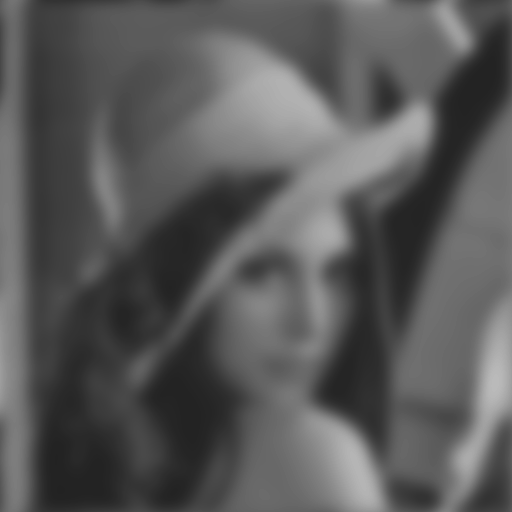
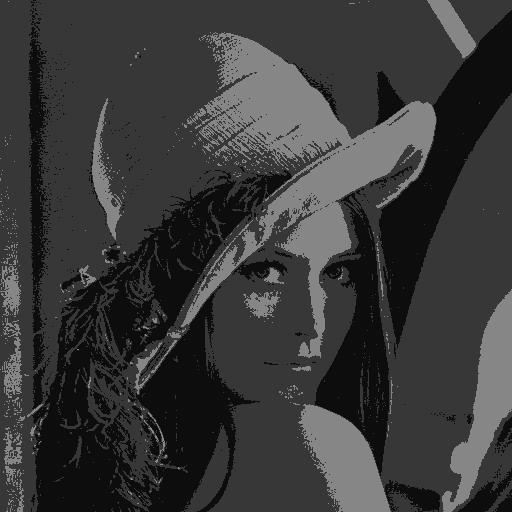
Mudei o output do teste de quantizacao. Parece melhor agora, e faz mais sentido.
Fazer o GCH e o outro lá (só olhar no código do professor).
Implementar as distâncias.
Fazer interfaces gráficas.

diff --git a/SimpleImageWorker/src/org/siw/gui/ImageFrame.java b/SimpleImageWorker/src/org/siw/gui/ImageFrame.java
@@ -1,6 +1,13 @@
 package org.siw.gui;
 
 import java.awt.BorderLayout;
+import java.awt.Component;
+import java.awt.Dimension;
+import java.awt.event.ActionEvent;
+import java.awt.event.ActionListener;
+import java.awt.image.BufferedImage;
+import java.io.File;
+import java.util.HashMap;
 
 import javax.imageio.ImageIO;
 import javax.swing.JFileChooser;
@@ -30,13 +37,6 @@ import org.siw.image.pointoperations.PointOperation;
 import org.siw.image.pointoperations.Threshold;
 import org.siw.image.transformations.FastFourierTransform;
 import org.siw.image.transformations.FourierTransform;
-
-import java.awt.event.ActionListener;
-import java.awt.event.ActionEvent;
-import java.awt.image.BufferedImage;
-import java.io.File;
-import java.util.HashMap;
-import java.util.Iterator;
 
 public class ImageFrame extends JFrame {
 	private static final long serialVersionUID = -3249878958195244978L;
@@ -75,16 +75,17 @@ public class ImageFrame extends JFrame {
 	private JScrollPane scrollPane;
 	private ImagePanel image;
 	
-	public ImageFrame(String filename) throws Exception{
+	public ImageFrame(String filename) {
 		this(new File(filename));
 	}
 	
-	public ImageFrame(File filename) throws Exception {
-		initComponents(filename);
-		
+	public ImageFrame(File filename) {
 		setTitle("Simple Image Worker - " + filename);
 		setDefaultCloseOperation(JFrame.DISPOSE_ON_CLOSE);
+		
+		initComponents(filename);
 		pack();
+		setLocationRelativeTo(null);
 	}
 	
 	public ImageFrame(BufferedImage img) throws Exception {
@@ -99,9 +100,10 @@ public class ImageFrame extends JFrame {
 		setTitle("Simple Image Worker");
 		setDefaultCloseOperation(JFrame.DISPOSE_ON_CLOSE);
 		pack();
+		setLocationRelativeTo(null);
 	}
 
-	private void initComponents(File filename) throws Exception {
+	private void initComponents(File filename) {
 		// menu
 		menuBar = new JMenuBar();
 		setJMenuBar(menuBar);
@@ -197,13 +199,33 @@ public class ImageFrame extends JFrame {
 		
 		mntmFastFourier.addActionListener(new ActionListener() { public void actionPerformed(ActionEvent arg0) { mntmFastFourierAction(arg0); }});
 		
-		// imagem
-		image = new ImagePanel(filename);
-		
 		// scroll
 		scrollPane = new JScrollPane();
 		getContentPane().add(scrollPane, BorderLayout.CENTER);
-		scrollPane.setViewportView(image);
+		
+		// imagem
+		try {
+			image = new ImagePanel(filename);
+			scrollPane.setViewportView(image);
+		} catch (Exception e) {
+			e.printStackTrace();
+			
+			for (Component c : this.getComponents())
+				c.setEnabled(false);
+			
+			for (int i = 0; i < menuBar.getMenuCount(); i++) {
+				JMenu menu = menuBar.getMenu(i);
+				menu.setEnabled(false);
+				for (Component c : menu.getMenuComponents())
+					c.setEnabled(false);
+			}
+			
+			mnArquivo.setEnabled(true);
+			mntmCarregar.setEnabled(true);
+			mntmFechar.setEnabled(true);
+			
+			setPreferredSize(new Dimension(500, 500));
+		}
 	}
 	
 	private void mntmCarregarAction(ActionEvent ev) {
@@ -525,7 +547,7 @@ public class ImageFrame extends JFrame {
 		}
 	}
 	
-	public static void main (String[] args) throws Exception {
+	public static void main (String[] args) {
 		JFrame principal = new ImageFrame("testes/lena.big.png");
 		principal.setVisible(true);
 	}

diff --git a/SimpleImageWorker/src/org/siw/gui/ImageOptions.java b/SimpleImageWorker/src/org/siw/gui/ImageOptions.java
@@ -1,5 +1,11 @@
 package org.siw.gui;
 
+import java.awt.BorderLayout;
+import java.awt.GridLayout;
+import java.awt.event.ActionEvent;
+import java.awt.event.ActionListener;
+import java.awt.event.WindowAdapter;
+import java.awt.event.WindowEvent;
 import java.text.NumberFormat;
 import java.util.HashMap;
 import java.util.Iterator;
@@ -10,20 +16,9 @@ import javax.swing.JDialog;
 import javax.swing.JFormattedTextField;
 import javax.swing.JFrame;
 import javax.swing.JLabel;
-import javax.swing.JOptionPane;
 import javax.swing.JPanel;
-import javax.swing.JTextField;
 import javax.swing.SwingConstants;
 import javax.swing.text.NumberFormatter;
-
-import java.awt.BorderLayout;
-import java.awt.Dimension;
-import java.awt.GridLayout;
-import java.awt.Point;
-import java.awt.event.ActionEvent;
-import java.awt.event.ActionListener;
-import java.awt.event.WindowAdapter;
-import java.awt.event.WindowEvent;
 
 public class ImageOptions extends JDialog {
 	private static final long serialVersionUID = -2592993946849824208L;
@@ -38,7 +33,7 @@ public class ImageOptions extends JDialog {
 
 	public ImageOptions(JFrame pai, String title, HashMap<String, Double> data) {
 		super(pai, title, true);
-
+		
 		setDefaultCloseOperation(JFrame.DISPOSE_ON_CLOSE);
 		getContentPane().setLayout(new BorderLayout());
 		
@@ -72,6 +67,8 @@ public class ImageOptions extends JDialog {
 		while (it.hasNext()) {
 			add(it.next());
 		}
+		
+		setLocationRelativeTo(pai);
 	}
 	
 	public void add(String key) {

diff --git a/SimpleImageWorker/src/org/siw/image/descriptors/Quantization.java b/SimpleImageWorker/src/org/siw/image/descriptors/Quantization.java
@@ -1,0 +1,47 @@
+package org.siw.image.descriptors;
+
+import java.awt.Color;
+import java.awt.image.BufferedImage;
+import java.io.File;
+
+import javax.imageio.ImageIO;
+
+import org.siw.image.pointoperations.Logarithm;
+
+public class Quantization {
+
+	public static int[][] get(BufferedImage img) {
+		int[][] ret = new int[img.getHeight()][img.getWidth()];
+		
+		for (int y = 0; y < img.getHeight(); y++)
+			for (int x = 0; x < img.getWidth(); x++) {
+				Color c = new Color(img.getRGB(x, y));
+				int red = (c.getRed() & 0xC0) >> 2;
+				int green = (c.getGreen() & 0xC0) >> 4;
+				int blue = (c.getBlue() & 0xC0) >> 6;
+				ret[y][x] = red | green | blue;
+			}
+		
+		return ret;
+	}
+	
+	public static void main(String[] args) throws Exception {
+		BufferedImage img = ImageIO.read(new File("testes/lena.big.png"));
+		
+		int [][] quantization = Quantization.get(img);
+		
+		BufferedImage newimg = new BufferedImage(img.getWidth(), img.getHeight(), img.getType());
+		for (int i = 0; i < quantization.length; i++) {
+			for (int j = 0; j < quantization[0].length; j++) {
+				int color = quantization[i][j];
+				int red = (color & 0x30) << 2;
+				int green = (color & 0xC) << 4;
+				int blue = (color & 0x3) << 6;
+				newimg.setRGB(j, i, new Color(red, green, blue).getRGB());
+			}
+		}
+		
+		ImageIO.write(newimg, "png", new File("testes_out/teste.png"));
+	}
+
+}

diff --git a/SimpleImageWorker/src/org/siw/image/descriptors/Histogram.java b/SimpleImageWorker/src/org/siw/image/descriptors/Histogram.java
@@ -1,0 +1,38 @@
+package org.siw.image.descriptors;
+
+import java.awt.Color;
+import java.awt.image.BufferedImage;
+import java.io.File;
+
+import javax.imageio.ImageIO;
+
+public class Histogram {
+
+	public static int[][] get(BufferedImage img) {
+		int [][] ret = new int[3][256];
+		
+		for (int y = 0; y < img.getHeight(); y++)
+			for (int x = 0; x < img.getWidth(); x++) {
+				Color c = new Color(img.getRGB(x, y));
+				ret[0][c.getRed()]++;
+				ret[1][c.getGreen()]++;
+				ret[2][c.getBlue()]++;
+			}
+		
+		return ret;
+	}
+	
+	public static void main(String[] args) throws Exception {
+		BufferedImage img = ImageIO.read(new File("testes/lena.big.png"));
+		
+		int [][] histogram = Histogram.get(img);
+		
+		for (int i = 0; i < histogram.length; i++) {
+			for (int j = 0; j < histogram[0].length; j++) {
+				System.out.print(histogram[i][j] + " ");
+			}
+			System.out.println();
+		}
+	}
+
+}

diff --git a/SimpleImageWorker/src/org/siw/gui/ComplexFrame.java b/SimpleImageWorker/src/org/siw/gui/ComplexFrame.java
@@ -12,7 +12,6 @@ import javax.swing.JMenuBar;
 import javax.swing.JMenuItem;
 import javax.swing.JOptionPane;
 import javax.swing.JRadioButtonMenuItem;
-import javax.swing.JSeparator;
 
 import org.siw.image.transformations.ConvolutionFilter;
 import org.siw.image.transformations.ConvolutionGaussian;
@@ -21,6 +20,8 @@ import org.siw.image.transformations.FourierTransform;
 import org.siw.util.ComplexNumber;
 
 public class ComplexFrame extends JFrame {
+	private static final long serialVersionUID = -6548421362146772446L;
+
 	private JMenuBar menubar;
 	
 	private JMenu mnTransformacoes;
@@ -104,6 +105,7 @@ public class ComplexFrame extends JFrame {
 		add(cplxPanel);
 		
 		pack();
+		setLocationRelativeTo(null);
 	}
 
 	protected void mntmDesfazerAction(ActionEvent arg0) {

diff --git a/SimpleImageWorker/src/org/siw/gui/ComplexPanel.java b/SimpleImageWorker/src/org/siw/gui/ComplexPanel.java
@@ -6,14 +6,13 @@ import java.awt.image.BufferedImage;
 
 import javax.swing.JPanel;
 
-import org.siw.image.pointoperations.Exponential;
-import org.siw.image.pointoperations.Logarithm;
-import org.siw.image.pointoperations.PointOperation;
 import org.siw.util.ColorUtils;
 import org.siw.util.ComplexNumber;
 import org.siw.util.matrixoperations.MatrixShift;
 
 public class ComplexPanel extends JPanel {
+	private static final long serialVersionUID = -1019972655365956292L;
+
 	private ComplexNumber[][][] matrix;
 	
 	private int imgType;

diff --git a/SimpleImageWorker/src/org/siw/gui/FilterDialog.java b/SimpleImageWorker/src/org/siw/gui/FilterDialog.java
@@ -16,6 +16,8 @@ import javax.swing.JPanel;
 import javax.swing.text.NumberFormatter;
 
 public class FilterDialog extends JDialog {
+	private static final long serialVersionUID = -1533010430347484624L;
+
 	private double[][] matrix;
 	
 	private JPanel panMatrix;
@@ -65,6 +67,7 @@ public class FilterDialog extends JDialog {
 			}
 		});
 		pack();
+		setLocationRelativeTo(pai);
 	}
 	
 

diff --git a/SimpleImageWorker/src/org/siw/image/transformations/FastFourierTransform.java b/SimpleImageWorker/src/org/siw/image/transformations/FastFourierTransform.java
@@ -181,7 +181,7 @@ public class FastFourierTransform implements FourierTransform {
 		ComplexNumber[][][] matrix = ft.apply(lena);
 		
 		ConvolutionFilter f = new ConvolutionGaussian(10, lena.getWidth(), lena.getHeight());
-		//f.execute(matrix);
+		f.execute(matrix);
 		
 		ft.revert(lena, matrix);
 		
